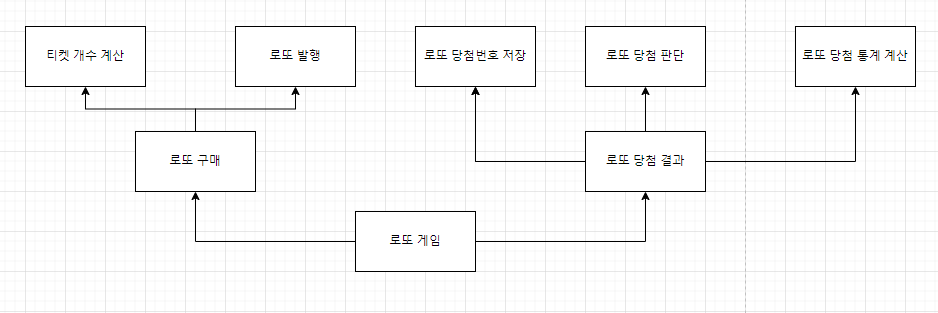
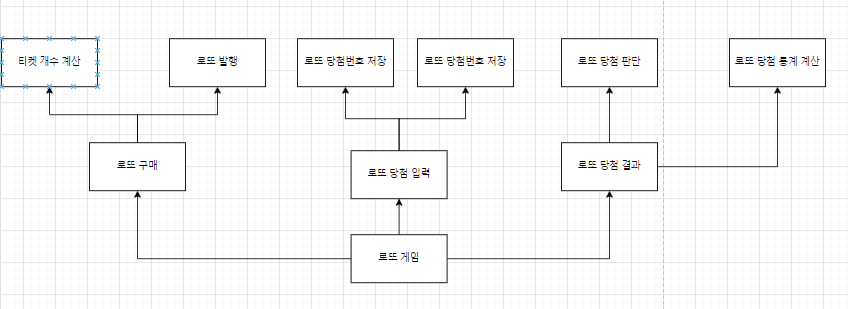
docs : 주석 및 README.md 업데이트

diff --git a/src/main/java/lotto/domain/view/OutputView.java b/src/main/java/lotto/domain/view/OutputView.java
@@ -2,6 +2,7 @@ package lotto.domain.view;
 
 import static lotto.domain.view.OutputViewFormat.GUIDE_RATE_FORMAT;
 import static lotto.domain.view.OutputViewFormat.GUIDE_RESULT_FORMAT;
+import static lotto.domain.view.OutputViewFormat.GUIDE_STATICS;
 
 public final class OutputView {
     public static void printLottos(String lottosStatus) {
@@ -12,16 +13,15 @@ public final class OutputView {
         System.out.printf((OutputViewFormat.GUIDE_LOTTO_AMOUNT_FORMAT.getState()) + "%n", ticketCount);
     }
 
+    public static void printStatics() {
+        System.out.println(GUIDE_STATICS);
+    }
+
     public static void printReturnOnInvestment(Double returnOnInvestment) {
         System.out.printf((GUIDE_RATE_FORMAT.state) + "%n", returnOnInvestment);
     }
 
     public static void printEachResult(String state, int count) {
         System.out.printf((GUIDE_RESULT_FORMAT.state) + "%n", state, count);
-    }
-
-    public static void printStatics() {
-        System.out.println("당첨 통계");
-        System.out.println("---");
     }
 }

diff --git a/src/main/java/lotto/domain/Lotto.java b/src/main/java/lotto/domain/Lotto.java
@@ -22,6 +22,10 @@ public class Lotto {
     }
 
     // TODO: 추가 기능 구현
+
+    /**
+     * 중복수 검사
+     */
     private void verifyDuplicatedNumber(List<Integer> numbers) throws IllegalArgumentException {
         for (int i = 0; i < numbers.size(); i++) {
             for (int j = i + 1; j < numbers.size(); j++) {
@@ -45,6 +49,9 @@ public class Lotto {
         return numbers;
     }
 
+    /**
+     * 다른 로또에 대한 일치숫자 개수 계산
+     */
     public int getMatchNumberCount(Lotto thatLotto) {
         List<Integer> thatLottoNumbers = thatLotto.getNumbers();
         AtomicInteger matchCount = new AtomicInteger();
@@ -56,6 +63,9 @@ public class Lotto {
         return matchCount.get();
     }
 
+    /**
+     * 보너스 번호 계산
+     */
     public boolean hasBonusNumber(int bonus) {
         return this.numbers.contains(bonus);
     }

diff --git a/src/main/java/lotto/domain/answer/check/WinningMoneyCalculator.java b/src/main/java/lotto/domain/answer/check/WinningMoneyCalculator.java
@@ -5,6 +5,7 @@ import java.util.Map;
 import java.util.Set;
 
 public final class WinningMoneyCalculator {
+    // 총 상금액 계산
     public static Long calculateWinnigPrice(Map<Integer, Integer> rankToCount) {
         Set<Integer> keys = rankToCount.keySet();
         long winnigPriceSum = 0L;
@@ -14,6 +15,7 @@ public final class WinningMoneyCalculator {
         return winnigPriceSum;
     }
 
+    // 각 등수에 해당하는 상금액 계산
     static Long getPrice(Integer rank, Integer count) {
         Long price = Arrays.stream(WinningPolicyCondition.values())
                 .filter(winningPolicyCondition -> winningPolicyCondition.rank == rank)

diff --git a/src/main/java/lotto/domain/view/OutputViewFormat.java b/src/main/java/lotto/domain/view/OutputViewFormat.java
@@ -3,7 +3,8 @@ package lotto.domain.view;
 public enum OutputViewFormat {
     GUIDE_LOTTO_AMOUNT_FORMAT("%d개를 구매했습니다."),
     GUIDE_RESULT_FORMAT("%s - %d개"),
-    GUIDE_RATE_FORMAT("총 수익률은 %.1f%%입니다.");
+    GUIDE_RATE_FORMAT("총 수익률은 %.1f%%입니다."),
+    GUIDE_STATICS("당첨 통계\n---");
 
     final String state;
 

diff --git a/src/main/java/lotto/domain/answer/number/LottoAnswerMapper.java b/src/main/java/lotto/domain/answer/number/LottoAnswerMapper.java
@@ -14,8 +14,7 @@ public final class LottoAnswerMapper {
                 .collect(Collectors.toList());
         try {
             lottoAnswer = new Lotto(answers);
-        } catch (Exception e) {
-            System.out.println(e.getMessage());
+        } catch (Exception ignored) {
         }
         return lottoAnswer;
     }

diff --git a/docs/README.md b/docs/README.md
@@ -1,53 +1,57 @@
 # 도메인
 ## 책임/역할 큰 틀
 ![역할 목록](역할 목록.png)
-## 구성도
-> 꼭 최종완성본 이미지를 붙이자!!!!
-> 꼭 최종완성본 이미지를 붙이자!!!!
-> 꼭 최종완성본 이미지를 붙이자!!!!
-> 꼭 최종완성본 이미지를 붙이자!!!!
-> 꼭 최종완성본 이미지를 붙이자!!!!
-> 꼭 최종완성본 이미지를 붙이자!!!!
+## 역할 분리 구성도
+![역할 분리 구성도](역할 분리 구성도.png)
+## 사용자 입력 처리
+![사용자 입력 처리](사용자 입력 처리.png)
+## 로또 구매 처리
+![로또 구매 처리](로또 구매 처리.png)
+## 당첨번호 저장 처리
+![당첨번호 저장 처리](당첨번호 저장 처리.png)
+## 당첨 결과 처리
+![당첨 결과 처리](당첨 결과 처리.png)
 
-## 각 도메인 별 설명
+
+
+# 각 도메인 별 설명
 > ***"도메인" : "역할"***
-### I/O
+### 뷰
 - InputView : 입력뷰
 - OutputView : 출력뷰
+### 입력
+- UserInput : 주입된 검증이 정상처리 될 때까지 입력 
 ### 로또 게임
 - LotteryController : 로또 게임 진행
 - User : {구매한 여러개의 로또들},{구매액}을 가지고 있는 사용자 
 - Lotto : 여러개의 로또 번호에 대한 일급 컬렉션 객체
 ### 로또 구매 :: 티켓 처리 / 로또 발행
 - LotteryPurchaseController : 로또 구매 진행
-
 - LotteryCountService : 티켓 개수 처리
 - CashValidator : 금액에 대한 검증
 - CashMapper : 금액에 대해 매핑
 - LottoCountCalculator : 티켓 가격에 따른 티켓 개수 계산
-
 - LotteryIssueService : 로또 발행 처리
 - LottoIssuer : 로또 번호 생성자
 - LottoSizePolicy : 로또 번호 개수 정책
 - LottoNumberRangePolicy : 로또 번호 범위 정책
-### 로또 당첨 :: 당첨 번호 저장 / 당첨 판단 / 이익률 통계
+### 당첨 번호 저장
 - LotteryAnswerController : 로또 당첨 진행
-
 - LotteryAnswerNumberService : 로또 당첨번호 처리
 - LottoAnswerNumberValidator : 로또 당첨번호 검증
 - LottoAnswerNumberMapper : 로또 당첨번호 매핑
-- LotteryAnswerService : 로또 보너스번호 처리
-- LottoAnswerValidator : 로또 보너스번호 검증
-- LottoAnswerMapper : 로또 보너스번호 매핑
-
+- LotteryBonusNumberService : 로또 보너스번호 처리
+- LottoBonusNumberValidator : 로또 보너스번호 검증
+- LottoBonusNumberMapper : 로또 보너스번호 매핑
+### 로또 당첨 판단
 - LotteryAnswerCheckService : 로또 당첨 판단
-- WinningPolicy : 당첨 정책
-- WinningPolicyWooWaCourse : 우아한테크코스 당첨 정책
+- WinningPolicy : 당첨 알고리즘 정책
+- WinningPolicyCondition : 당첨 조건
 - WinningMoneyCalculator : 등수 별 상금 배정
-
+### 이익률 처리
 - LotteryRateService : 이익률 처리
-- RateCalculator : 계산 정책에 따른 이익률 계산
-- RatePolicy : 이익률 계산 정책
+
+
 
 
 # 기능구현 리스트
@@ -99,35 +103,38 @@
   - 로또 번호의 숫자 범위
   - 1개의 티켓에 대한 번호 개수
   - 로또 1장의 가격
-- 모든 정책(=기준)은 변경가능하다.
+- 모든 정책(=기준)은 변경가능하다. 이를 함수형 인터페이스를 통해 구현해주었다.
   - 당첨기준
   - 등수에 따른 당첨금액
   - 수익률 계산 기준
+- 입력에 대한 검증은 변경가능하다. 이를 함수형 인터페이스를 통해 구현해주었다.
 - 각 응집도에 따라 패키지를 분리
+
+
 
 # 체크리스트
 ## 오버엔지니어링 여부
-- [ ]  주어진 기능 + 확장성에만 집중하였는가
+- [x]  주어진 기능 + 확장성에만 집중하였는가
 
 ## 지난주차 피드백 체크리스트
-- [ ]  MVC 간 분리도 떨어짐
-- [ ]  컨트롤러의 역할이 너무 비대함
-- [ ]  DI 처리해야하는 명확한 이유가 불명확함
-- [ ]  싱글톤을 써야하는 명확한 이유가 불명확함
-- [ ]  매직넘버 처리
-- [ ]  Pattern 매칭에 대해서는 새로 생성하지 말고 캐싱할 것
+- [x]  MVC 간 분리도 떨어짐
+- [x]  컨트롤러의 역할이 너무 비대함
+- [x]  DI 처리해야하는 명확한 이유가 불명확함
+- [x]  싱글톤을 써야하는 명확한 이유가 불명확함
+- [x]  매직넘버 처리
+- [x]  Pattern 매칭에 대해서는 새로 생성하지 말고 캐싱할 것
 
 ## 시도사항
-- [ ]  너무 MVC에 종속되어 생각하지 말기
+- [x]  너무 MVC에 종속되어 생각하지 말기
 - [ ]  정적 팩토리 메서드를 사용할 때와 사용하지 않을 때를 구분지었다 :: 너무 무분별하게 사용하지 않도록 함
-- [ ]  최대한 매직넘버는 ENUM으로 따로 추출하였다.
-- [ ]  대신, 최대한 객체지향적 관점으로 유연하게 설계하려고 노력하자
-- [ ]  InputView, OutputView 나누기
-- [ ]  시퀀스다이어그램과 유스케이스를 통해 명확한 도메인 분석 프로세스를 거칠 것
-- [ ]  Tool을 사용하여 추출한 도메인,시퀀스,유스케이스를 README에 기입 => 가독성,리팩토링 향상
-- [ ]  { 컬렉션 + 로직 } 에 대해서는 First Class Collection을 사용할 것
+- [x]  최대한 매직넘버는 ENUM으로 따로 추출하였다.
+- [x]  대신, 최대한 객체지향적 관점으로 유연하게 설계하려고 노력하자
+- [x]  InputView, OutputView 나누기
+- [x]  시퀀스다이어그램과 유스케이스를 통해 명확한 도메인 분석 프로세스를 거칠 것
+- [x]  Tool을 사용하여 추출한 도메인,시퀀스,유스케이스를 README에 기입 => 가독성,리팩토링 향상
+- [x]  { 컬렉션 + 로직 } 에 대해서는 First Class Collection을 사용할 것
     - [일급컬렉션(First Clss Collection)? 언제 쓰고 왜 써야할까?](https://www.notion.so/First-Clss-Collection-7b093eef1f3c442e9ee2e690d954f7ef?pvs=21) 
-- [ ]  테스트 시, 하나의 케이스에 대한 여러 데이터셋들은 `@ParameterizedTest`, `@ValueSource` 어노테이션을 사용할 것
+- [x]  테스트 시, 하나의 케이스에 대한 여러 데이터셋들은 `@ParameterizedTest`, `@ValueSource` 어노테이션을 사용할 것
 
 ## 리팩토링
 - [ ]  도메인에 대해서
@@ -144,13 +151,13 @@
     - [ ]  검증로직이 유효한 구현인가?
    
 ## 구현제한조건 체크리스트
-- [ ] Java 코드 컨벤션 준수했는가 ?
-- [ ] 모든 테스트 성공했는가 ?
-- [ ] indent depth 3이상을 넘지 않았는가 ?
-- [ ] 3항 연산자 사용하지 않았는가 ?
-- [ ] SRP(함수가 한 가지 일)을 준수했는가 ?
-- [ ] 함수(또는 메서드)의 길이가 15라인을 넘어가지 않도록 구현했는가?
-- [ ] else문을 사용하지 않았는가 ?
-- [ ] ENUM을 적용했는가 ? 
-- [ ] 모든 도메인과 레이어에 테스트를 구현했는가 ?
+- [x] Java 코드 컨벤션 준수했는가 ?
+- [x] 모든 테스트 성공했는가 ?
+- [x] indent depth 3이상을 넘지 않았는가 ?
+- [x] 3항 연산자 사용하지 않았는가 ?
+- [x] SRP(함수가 한 가지 일)을 준수했는가 ?
+- [x] 함수(또는 메서드)의 길이가 15라인을 넘어가지 않도록 구현했는가?
+- [x] else문을 사용하지 않았는가 ?
+- [x] ENUM을 적용했는가 ? 
+- [x] 모든 도메인과 레이어에 테스트를 구현했는가 ?
   > UI 로직은 제외한다.
